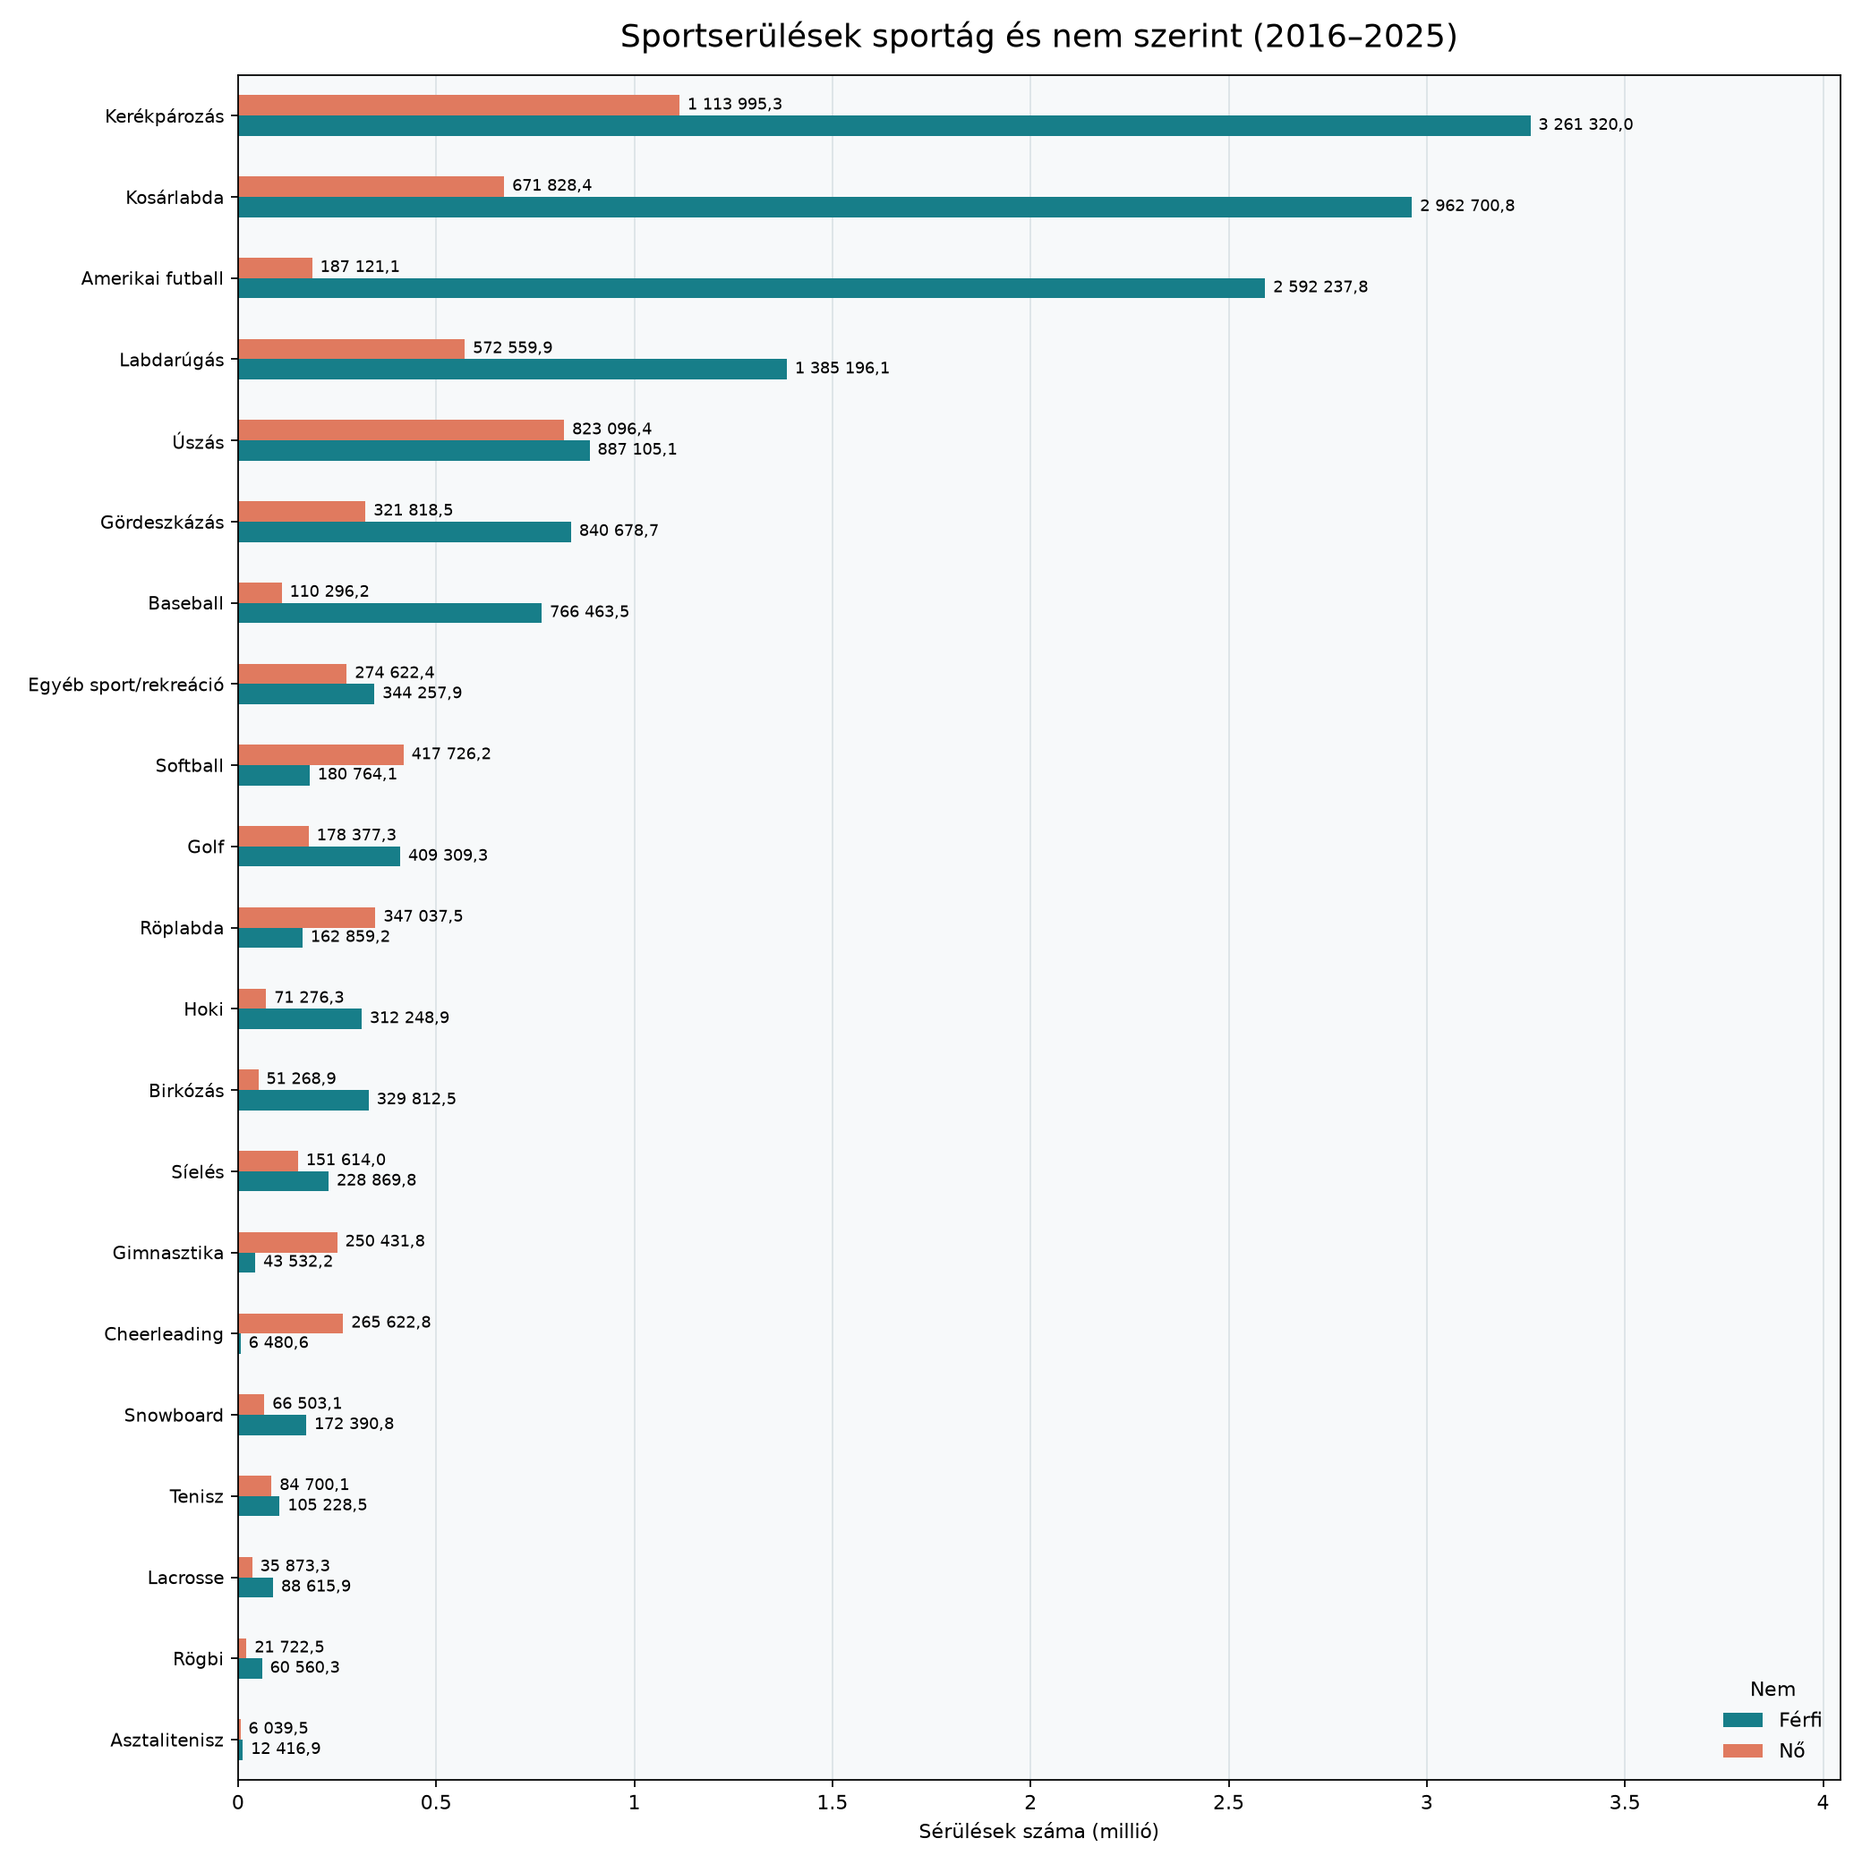
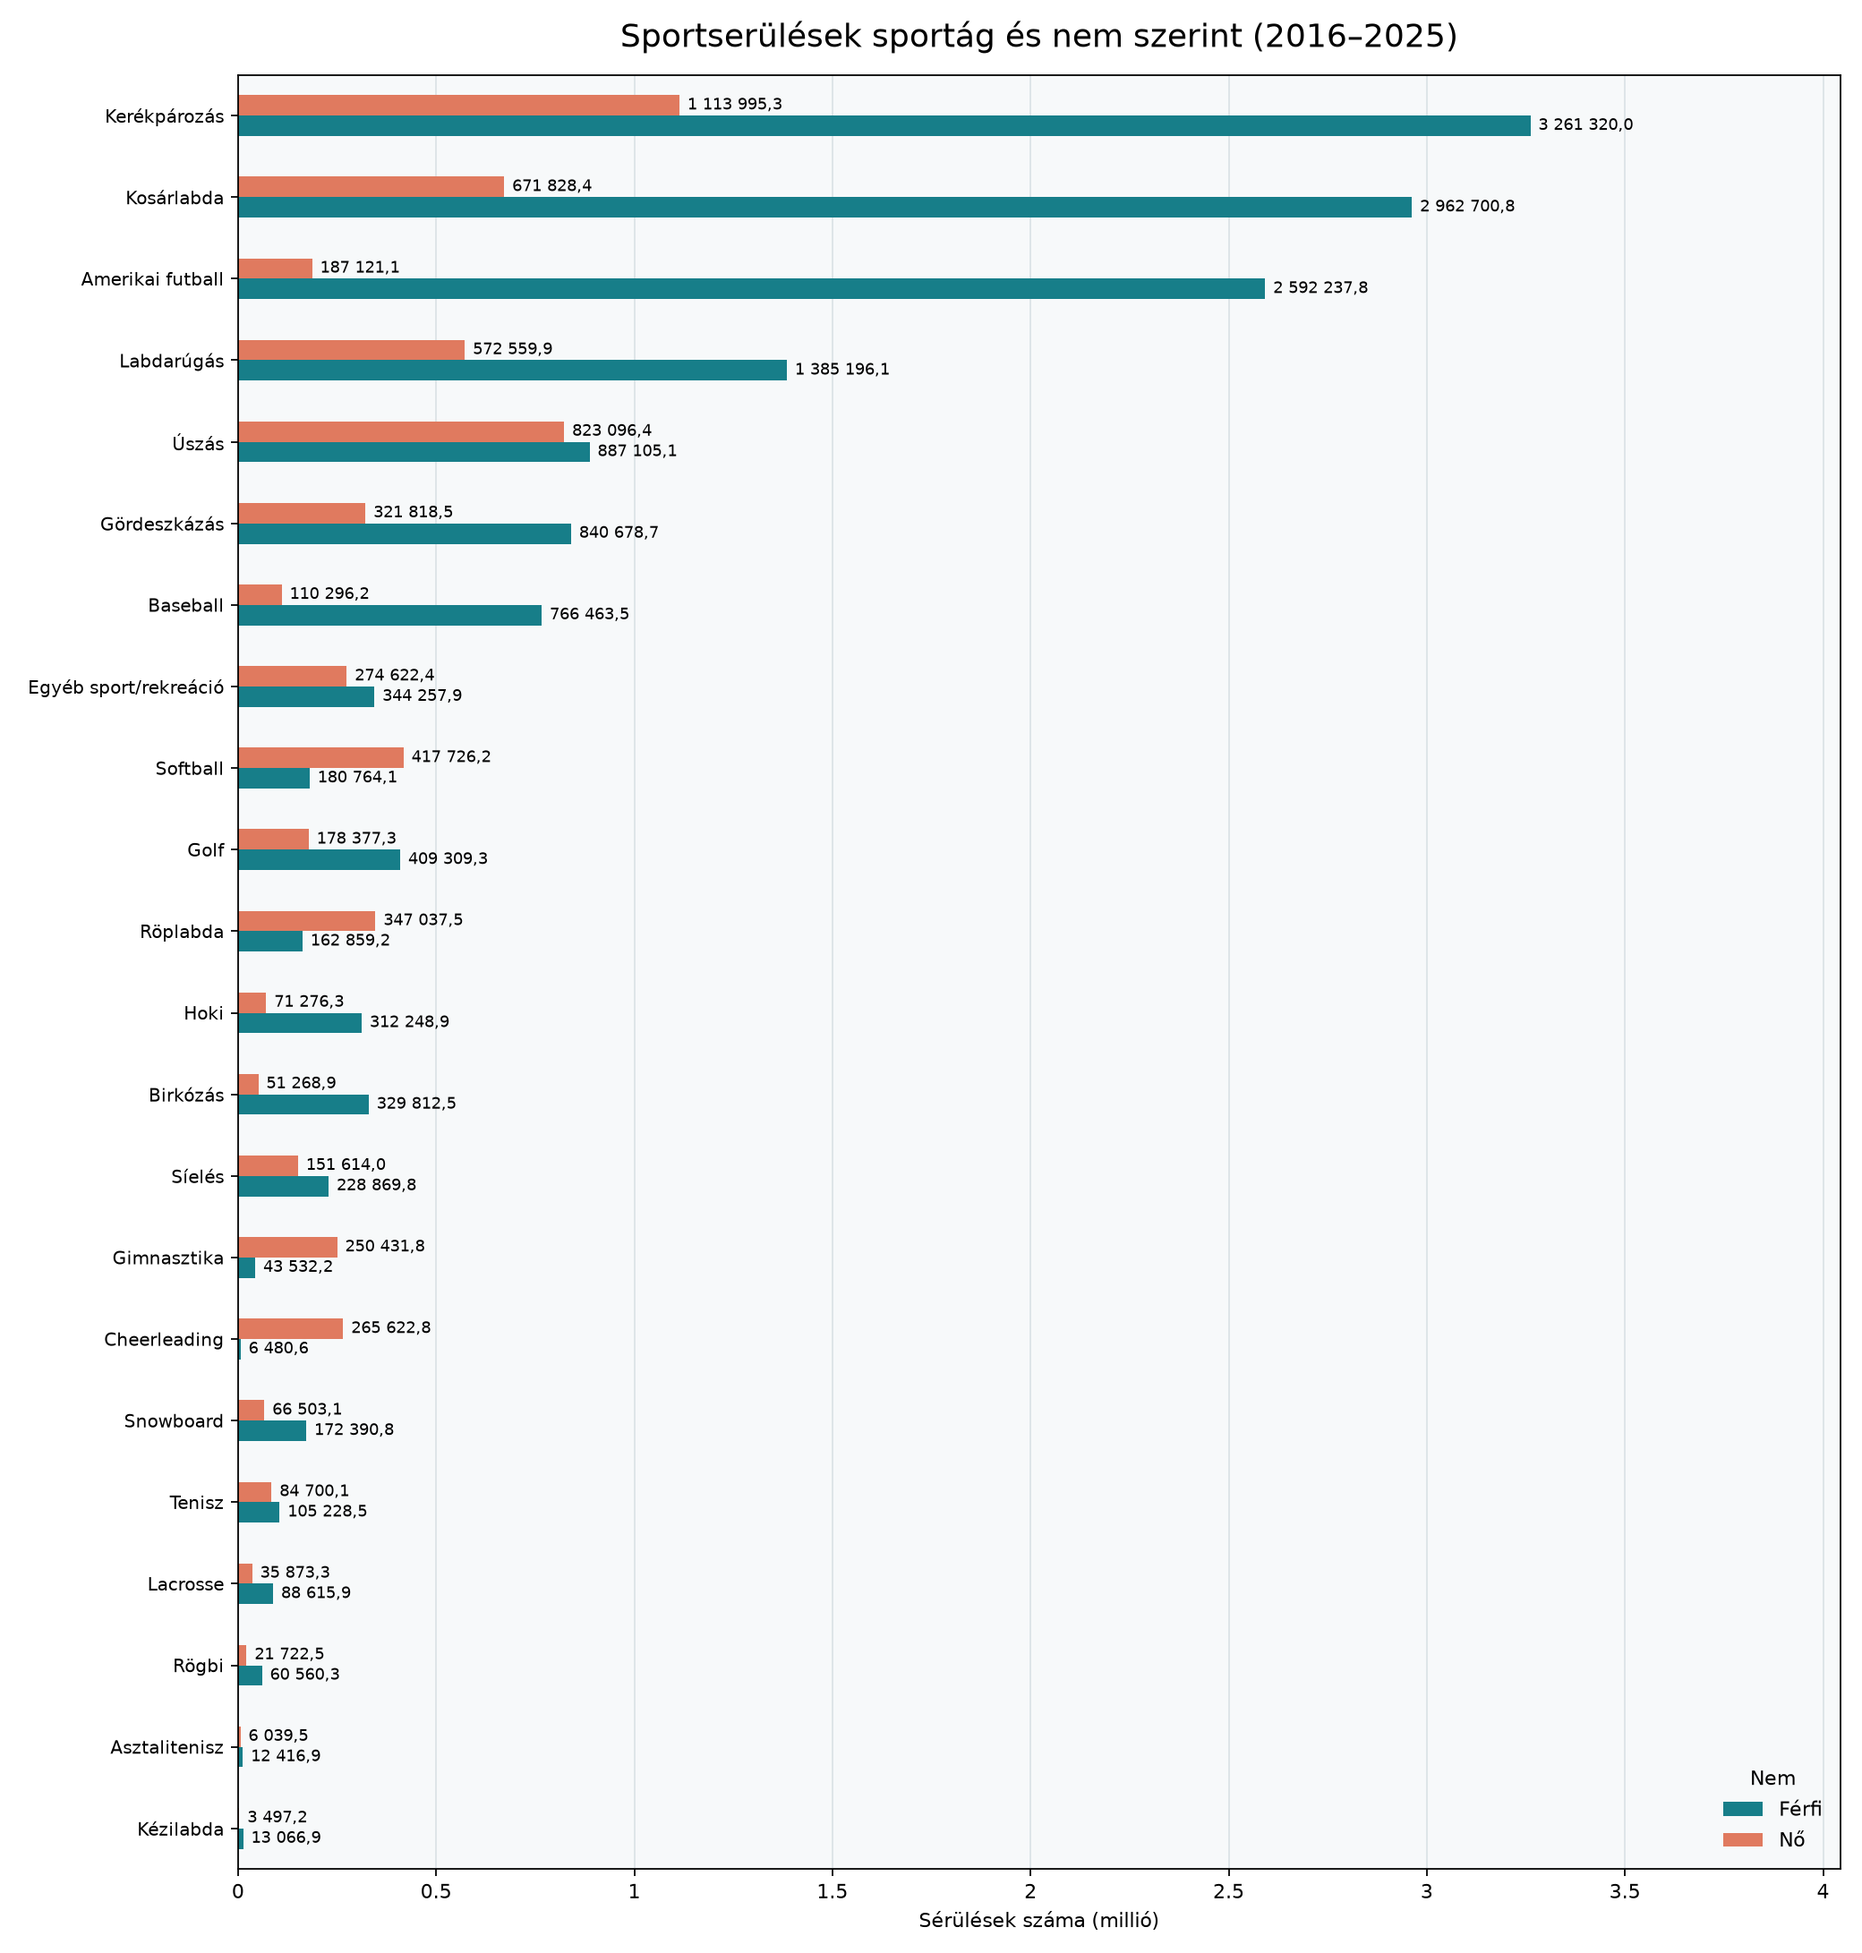
main

diff --git a/program.py b/program.py
@@ -21,6 +21,7 @@ SPORTAGAK = [
 	("Softball", ("SOFTBALL",)),
 	("Kosárlabda", ("BASKETBALL",)),
 	("Labdarúgás", ("SOCCER",)),
+	("Kézilabda", ("HANDBALL", "HAND BALL")),
 	("Röplabda", ("VOLLEYBALL",)),
 	("Hoki", ("HOCKEY",)),
 	("Asztalitenisz", ("TABLE TENNIS",)),
@@ -213,6 +214,10 @@ def serulesbetolt(files):
 						"sport": sport,
 						"nem": nem,
 						"serulestipus": serulestipus,
+						"testrész": body_part_labels.get(
+							egysegesites(row[oszlop_indexes["Body_Part"]]),
+							"ISMERETLEN TESTRÉSZ",
+						),
 						"reszletes_serules": reszletes_tipus,
 						"Weight": weight,
 					}
@@ -223,7 +228,14 @@ def serulesbetolt(files):
 		raise ValueError("Nem találtam feldolgozható NEISS-adatot.")
 	return pd.DataFrame(
 		osszadat,
-		columns=["sport", "nem", "serulestipus", "reszletes_serules", "Weight"],
+		columns=[
+			"sport",
+			"nem",
+			"serulestipus",
+			"testrész",
+			"reszletes_serules",
+			"Weight",
+		],
 	)
 
 
@@ -346,6 +358,97 @@ def serulestipusdiagram(data):
 	plt.close(fig)
 
 
+def kezilabda_diagram(data):
+	kezilabda = data[data["sport"] == "Kézilabda"]
+	if kezilabda.empty:
+		raise ValueError("Nem találtam kézilabdához besorolt esetet.")
+
+	serulestipusok = kezilabda.groupby("serulestipus")["Weight"].sum().nlargest(12)
+	testrészek = kezilabda.groupby("testrész")["Weight"].sum().nlargest(10)
+	serulesnevek = {
+		"STRAIN, SPRAIN": "Rándulás / húzódás",
+		"FRACTURE": "Törés",
+		"CONTUSIONS, ABR.": "Zúzódás / horzsolás",
+		"LACERATION": "Vágott seb",
+		"CONCUSSION": "Agyrázkódás",
+		"DISLOCATION": "Ficam",
+		"INTERNAL INJURY": "Belső sérülés",
+		"OTHER": "Egyéb",
+		"HEMATOMA": "Vérömleny",
+		"NERVE DAMAGE": "Idegkárosodás",
+		"POISONING": "Mérgezés",
+		"DERMA/CONJUNCT": "Bőr-/kötőhártya-sérülés",
+	}
+	testrésznevek = {
+		"KNEE": "Térd",
+		"ANKLE": "Boka",
+		"FINGER": "Ujj",
+		"FOOT": "Lábfej",
+		"HAND": "Kéz",
+		"WRIST": "Csukló",
+		"LOWER LEG": "Lábszár",
+		"HEAD": "Fej",
+		"FACE": "Arc",
+		"LOWER TRUNK": "Alsó törzs",
+		"UPPER TRUNK": "Felső törzs",
+		"UPPER TRUNK(OLD)": "Felső törzs",
+		"SHOULDER": "Váll",
+		"UPPER LEG": "Comb",
+	}
+	serulestipusok.index = [
+		serulesnevek.get(tipus.split(" - ", 1)[-1], tipus.split(" - ", 1)[-1].title())
+		for tipus in serulestipusok.index
+	]
+	testrészek.index = [
+		testrésznevek.get(testresz.split(" - ", 1)[-1], testresz.split(" - ", 1)[-1].title())
+		for testresz in testrészek.index
+	]
+
+	fig, axes = plt.subplots(1, 2, figsize=(15, 8))
+	fig.patch.set_facecolor("white")
+	for ax, values, title, color in (
+		(axes[0], serulestipusok, "Sérüléstípusok", "#177e89"),
+		(axes[1], testrészek, "Érintett testrészek", "#e07a5f"),
+	):
+		values = values.sort_values()
+		ax.set_facecolor("#f7f9fa")
+		bars = ax.barh(values.index, values.values, color=color)
+		ax.set_title(title, fontsize=13)
+		ax.set_xlabel("Országos becsült esetszám")
+		ax.grid(axis="x", color="#dce3e6", linewidth=0.8)
+		ax.set_axisbelow(True)
+		ax.tick_params(axis="y", labelsize=9)
+		ax.margins(x=0.2)
+		ax.bar_label(
+			bars,
+			labels=[f"{ertek:,.0f}".replace(",", " ") for ertek in values.values],
+			padding=3,
+			fontsize=8,
+		)
+	fig.suptitle("Kézilabda-sérülések (2016–2025)", fontsize=16)
+	fig.tight_layout(rect=(0, 0, 1, 0.95))
+	fig.savefig(OUTPUT_FOLDER / "kezilabda_serulesek.png", dpi=160)
+	plt.close(fig)
+
+	serulesenkent = (
+		kezilabda.groupby("serulestipus", as_index=False)["Weight"]
+		.sum()
+		.assign(Bontás="Sérüléstípus")
+		.rename(columns={"serulestipus": "Kategória", "Weight": "Becsült esetszám"})
+	)
+	testreszenkent = (
+		kezilabda.groupby("testrész", as_index=False)["Weight"]
+		.sum()
+		.assign(Bontás="Testrész")
+		.rename(columns={"testrész": "Kategória", "Weight": "Becsült esetszám"})
+	)
+	pd.concat([serulesenkent, testreszenkent], ignore_index=True).to_csv(
+		OUTPUT_FOLDER / "kezilabda_serulesek.csv",
+		index=False,
+		encoding="utf-8-sig",
+	)
+
+
 def main():
 	files = sorted(FOLDER.glob("neiss20*.xlsx"))
 	if not files:
@@ -401,6 +504,7 @@ def main():
 	)
 	diagment(serulesek)
 	serulestipusdiagram(serulesek)
+	kezilabda_diagram(serulesek)
 
 	print(f"Besorolt NEISS-esetek: {len(serulesek):,}".replace(",", " "))
 	print(f"Országos becslés a Weight mező alapján: {serulesek['Weight'].sum():,.0f}".replace(",", " "))
